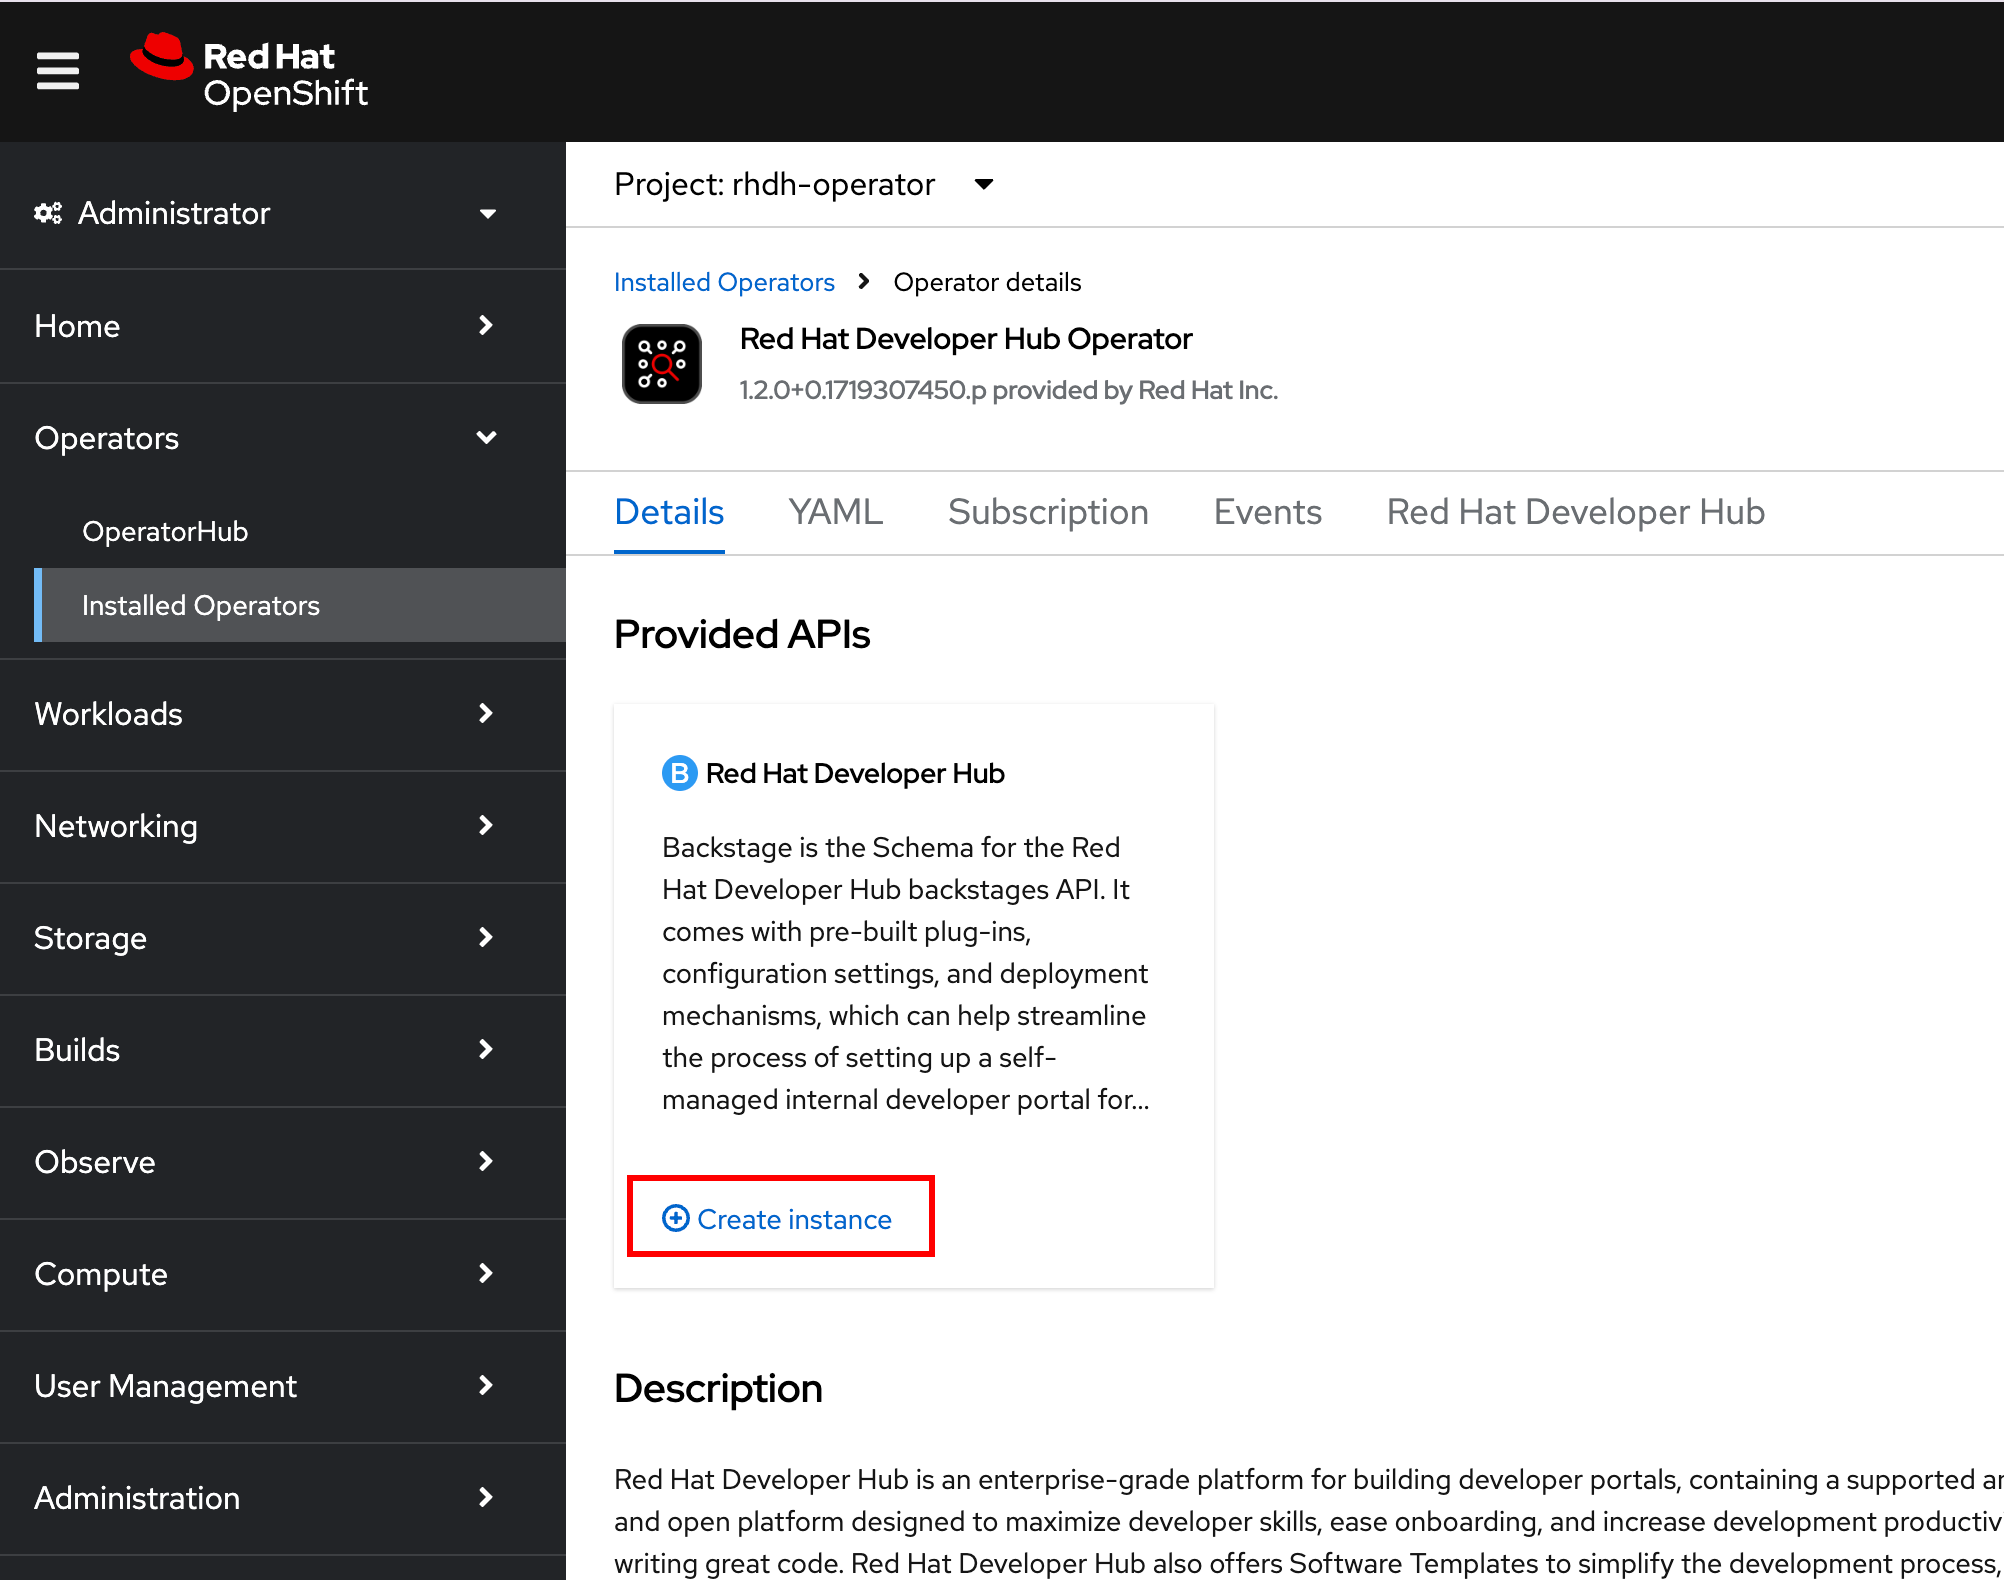
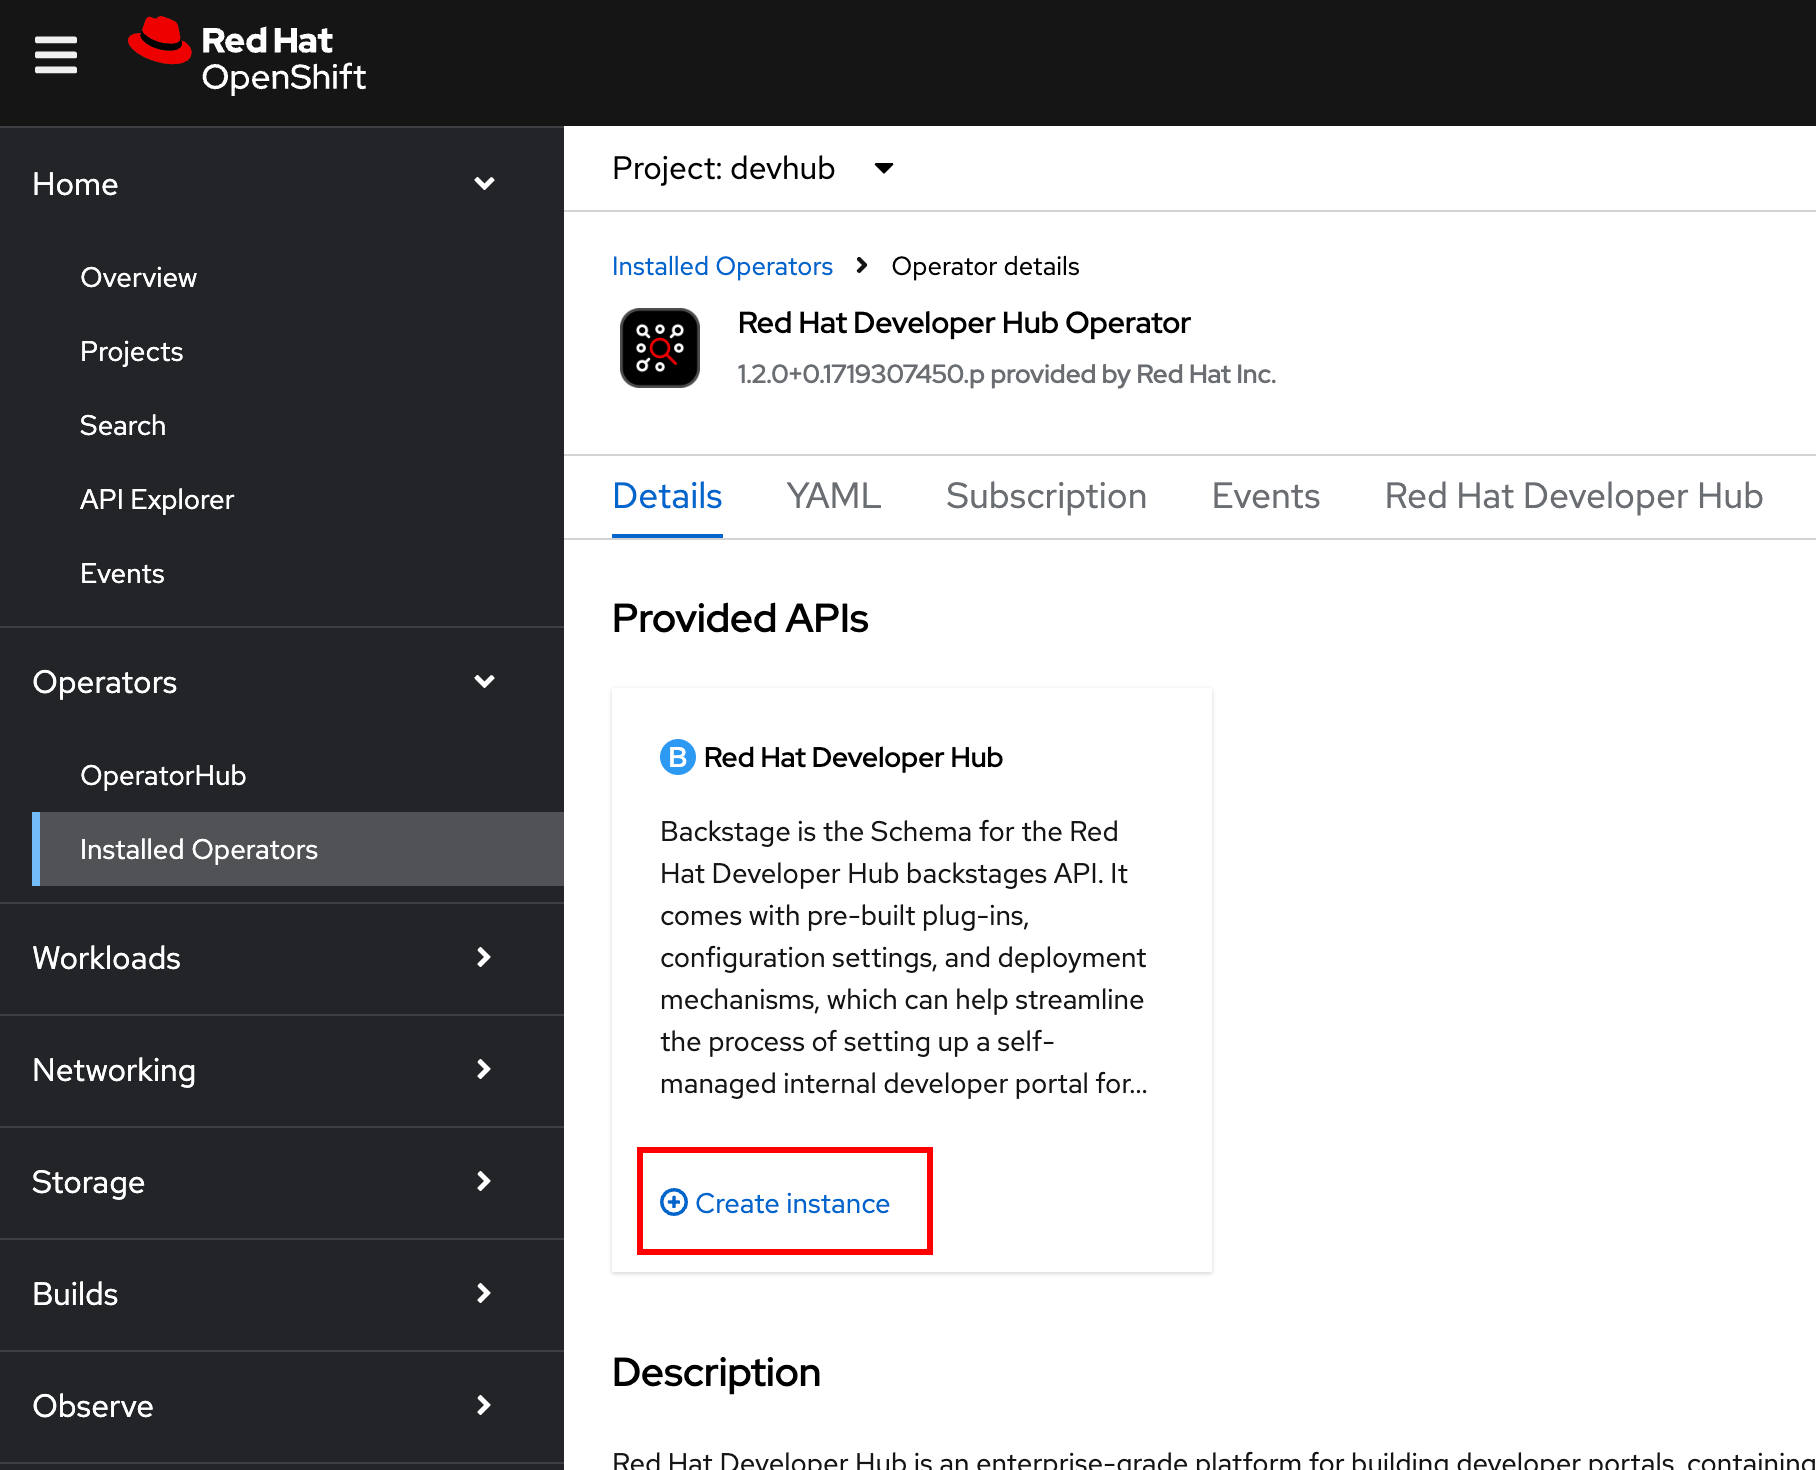
Deploy preview for PR 12 🛫

diff --git a/pr-preview/pr-12/devhub-admin/1/chapter1/upgrade.html b/pr-preview/pr-12/devhub-admin/1/chapter1/upgrade.html
@@ -136,126 +136,10 @@
 <i class="fa icon-important" title="Important"></i>
 </td>
 <td class="content">
-Before you perform any updates to RHDH, ensure that you back up <strong>ALL</strong> the data in the RHDH PostreSQL database!
+Before you perform any updates to RHDH, ensure that you back up <strong>ALL</strong> the data in the RHDH PostreSQL database, plus any RHDH configuration stored in ConfigMaps and Secrets!
 </td>
 </tr>
 </table>
-</div>
-</div>
-</div>
-<div class="sect1">
-<h2 id="_backup_the_rhdh_postgresql_database"><a class="anchor" href="#_backup_the_rhdh_postgresql_database"></a>Backup the RHDH PostgreSQL Database</h2>
-<div class="sectionbody">
-<div class="paragraph">
-<p>You need to install several CLI tools on your <strong>local workstation</strong> before upgrading the database.</p>
-</div>
-<div class="ulist">
-<ul>
-<li>
-<p>Install the OpenShift CLI tool <strong>oc</strong></p>
-</li>
-<li>
-<p>Install the PostgreSQL CLI client <strong>psql</strong> and <strong>pg_dump</strong></p>
-</li>
-</ul>
-</div>
-<div class="sect2">
-<h3 id="_backup_process"><a class="anchor" href="#_backup_process"></a>Backup Process</h3>
-<div class="olist arabic">
-<ol class="arabic">
-<li>
-<p>Use the <strong>oc</strong> CLI to log in to the OpenShift cluster as the cluster administrator, and switch to the <strong>devhub</strong> project.</p>
-<div class="listingblock">
-<div class="content">
-<pre class="highlightjs highlight"><code class="language-bash hljs" data-lang="bash">$ oc login -u admin https://api.cluster-&lt;your_guid&gt;.dynamic.redhatworkshops.io:6443
-$ oc project devhub</code></pre>
-</div>
-</div>
-</li>
-<li>
-<p>Scale the <strong>rhdh-developer-hub</strong> pods to <strong>0</strong> to prevent requests from modifying the database state during backup.</p>
-<div class="listingblock">
-<div class="content">
-<pre class="highlightjs highlight"><code class="language-bash hljs" data-lang="bash">$ oc scale --replicas=0 deployment/rhdh-developer-hub</code></pre>
-</div>
-</div>
-</li>
-<li>
-<p>Get the name of the PostgreSQL database pod and set it to an environment variable.</p>
-<div class="listingblock">
-<div class="content">
-<pre class="highlightjs highlight"><code class="language-bash hljs" data-lang="bash">$ POD=`oc get pods --selector app.kubernetes.io/name=postgresql \
-  -o custom-columns=name:.metadata.name --no-headers`; echo $POD</code></pre>
-</div>
-</div>
-</li>
-<li>
-<p>List the RHDH databases in the PostgreSQL instance. The RHDH databases are prefixed by <strong>backstage_</strong>.</p>
-<div class="listingblock">
-<div class="content">
-<pre>$ <strong>oc rsh $POD</strong>
-sh-5.1$ <strong>psql postgres</strong>
-psql (15.3)
-Type "help" for help.
-
-postgres=# <strong>\l</strong>
-...
- backstage_plugin_app
- backstage_plugin_auth
- backstage_plugin_catalog
- backstage_plugin_scaffolder
- backstage_plugin_search
-...
-(8 rows)
-postgres=# <strong>\q</strong>
-sh-5.1$ <strong>exit</strong></pre>
-</div>
-</div>
-</li>
-<li>
-<p>Enable port forwarding to the database pod.</p>
-<div class="listingblock">
-<div class="content">
-<pre class="highlightjs highlight"><code class="language-bash hljs" data-lang="bash">$ oc port-forward $POD 5432:5432
-Forwarding from 127.0.0.1:5432 -&gt; 5432
-Forwarding from [::1]:5432 -&gt; 5432</code></pre>
-</div>
-</div>
-</li>
-<li>
-<p>Backup all the <strong>backstage_</strong> the databases using the <strong>pg_dump</strong> command. Store the database backups in a safe location, for restoration at a later point in time in case of a disaster or failure.</p>
-<div class="listingblock">
-<div class="content">
-<pre class="highlightjs highlight"><code class="language-bash hljs" data-lang="bash">$ pg_dump backstage_plugin_app &gt; /tmp/backstage_plugin_app.sql \
-  --host=127.0.0.1 --port=5432 -U postgres</code></pre>
-</div>
-</div>
-<div class="paragraph">
-<p>Repeat the command for all the other <strong>backstage_</strong> databases.</p>
-</div>
-</li>
-<li>
-<p>After all the databases have been backed up, you can scale the <strong>rhdh-developer-hub</strong> back to your original count.</p>
-<div class="listingblock">
-<div class="content">
-<pre class="highlightjs highlight"><code class="language-bash hljs" data-lang="bash">$ oc scale --replicas=1 deployment/rhdh-developer-hub</code></pre>
-</div>
-</div>
-</li>
-</ol>
-</div>
-<div class="admonitionblock note">
-<table>
-<tr>
-<td class="icon">
-<i class="fa icon-note" title="Note"></i>
-</td>
-<td class="content">
-If you are using a non-default (that is, from a third party or commercial vendor) PostgreSQL database, refer to the backup instructions from the provider of the PostgreSQL database. Ensure that you scale the <strong>rhdh-developer-hub</strong> pod count to <strong>0</strong> before starting the backup procedure.
-</td>
-</tr>
-</table>
-</div>
 </div>
 </div>
 </div>
@@ -316,11 +200,27 @@ $ oc project devhub</code></pre>
 </div>
 </li>
 <li>
-<p>Assuming there is a new version of the RHDH helm chart (for example, <strong>1.1.0</strong>), run the following command to upgrade RHDH. You can also supply extra values to the chart by creating a <strong>new-values.yml</strong> file on your workstation with values that override the attributes in the installed chart, or add new attributes.</p>
+<p>Assuming there is a new version of the RHDH helm chart (for example, <strong>1.2.1</strong>), run the following command to upgrade RHDH.</p>
+<div class="listingblock">
+<div class="content">
+<pre class="highlightjs highlight"><code class="language-bash hljs" data-lang="bash">$ helm upgrade -i rhdh \
+  openshift-helm-charts/redhat-developer-hub --version 1.2.1
+
+Release "rhdh" has been upgraded. Happy Helming!
+NAME: rhdh
+LAST DEPLOYED: Fri Jun 28 18:06:47 2024
+NAMESPACE: devhub
+STATUS: deployed
+REVISION: 2</code></pre>
+</div>
+</div>
+<div class="paragraph">
+<p>You can also supply extra values to the chart by creating a <strong>new-values.yml</strong> file on your workstation with values that override the attributes in the installed chart, or add new attributes.</p>
+</div>
 <div class="listingblock">
 <div class="content">
 <pre class="highlightjs highlight"><code class="language-bash hljs" data-lang="bash">$ helm upgrade -i rhdh -f new-values.yml \
-  openshift-helm-charts/redhat-developer-hub --version 1.1.0</code></pre>
+  openshift-helm-charts/redhat-developer-hub --version 1.2.1</code></pre>
 </div>
 </div>
 </li>
@@ -331,20 +231,17 @@ $ oc project devhub</code></pre>
 <div class="sect1">
 <h2 id="_upgrading_the_rhdh_operator_using_the_openshift_web_console"><a class="anchor" href="#_upgrading_the_rhdh_operator_using_the_openshift_web_console"></a>Upgrading the RHDH Operator using the OpenShift Web Console</h2>
 <div class="sectionbody">
-<div class="admonitionblock note">
-<table>
-<tr>
-<td class="icon">
-<i class="fa icon-note" title="Note"></i>
-</td>
-<td class="content">
-The operator is not yet available publicly (ETA: Q1 2024). Watch this section for updates once the operator is GA.
-</td>
-</tr>
-</table>
+<div class="paragraph">
+<p>The default setting during operator install is set to <strong>Automatic</strong> mode. In this mode, new versions of the operator are <em>automatically</em> downloaded and applied. If you chose the <strong>Manual</strong> mode, a cluster administrator needs to <em>manually</em> approve each upgrade. In such cases, switch to the <code>Administrator</code> perspective, and then click on <code>Operators &gt; Installed Operators</code> to view the updates for the RHDH operator.</p>
+</div>
+<div class="imageblock">
+<div class="content">
+<img src="_images/op-upgrade.png" alt="op upgrade">
+</div>
+<div class="title">Figure 3. Operator Updates</div>
 </div>
 <div class="paragraph">
-<p>You can refer to the instructions <a href="https://docs.openshift.com/container-platform/4.13/operators/admin/olm-upgrading-operators.html#olm-upgrading-operators" target="_blank" rel="noopener">here</a> to upgrade the RHDH operator.</p>
+<p>Click <code>Upgrade Available</code> for the RHDH operator, and then click <code>Preview InstallPlan</code>. Click <code>Approve</code> to approve the update.</p>
 </div>
 </div>
 </div>

diff --git a/pr-preview/pr-12/devhub-admin/1/chapter1/install-operator.html b/pr-preview/pr-12/devhub-admin/1/chapter1/install-operator.html
@@ -171,6 +171,9 @@
 <div class="title">Figure 1. RHDP OpenShift Cluster Details</div>
 </div>
 </li>
+<li>
+<p>Create a new OpenShift project named <strong>devhub</strong>. You will install the RHDH operator and instance into this project.</p>
+</li>
 </ol>
 </div>
 </div>
@@ -191,7 +194,13 @@
 </div>
 </li>
 <li>
-<p>In the <code>Red Hat Developer Hub</code> operator details page, click <code>Install</code>. In the <code>Install Operator</code> page, select the default values for all fields and click <code>Install</code> to begin the installation.</p>
+<p>In the <code>Red Hat Developer Hub</code> operator details page, click <code>Install</code>. In the <code>Install Operator</code> page, select the <strong>devhub</strong> project in the <code>Installed Namespace</code> field. Leave all other fields at their default values, and click <code>Install</code> to begin the operator installation.</p>
+<div class="imageblock">
+<div class="content">
+<img src="_images/rhdh-op-details.png" alt="rhdh op details">
+</div>
+<div class="title">Figure 3. RHDP Operator Details</div>
+</div>
 </li>
 <li>
 <p>Wait for 5-10 minutes while the operator is installed. You should see <code>Installed operator:  ready for use</code> message when the operator is successfully installed.</p>
@@ -199,7 +208,7 @@
 <div class="content">
 <img src="_images/rhdh-operator-installed.png" alt="rhdh operator installed">
 </div>
-<div class="title">Figure 3. RHDH Operator Installed</div>
+<div class="title">Figure 4. RHDH Operator Installed</div>
 </div>
 </li>
 <li>
@@ -208,19 +217,19 @@
 <div class="content">
 <img src="_images/rhdh-create-op-instance.png" alt="rhdh create op instance">
 </div>
-<div class="title">Figure 4. RHDH Create new Instance</div>
+<div class="title">Figure 5. RHDH Create new Instance</div>
 </div>
 </li>
 <li>
 <p>In the <code>Create Backstage</code> page, change the <code>Name</code> to <strong>rhdh</strong>, leave all other fields at default values, and then click <code>Create</code> to deploy a new RHDH instance.</p>
 </li>
 <li>
-<p>Switch to the <code>Developer</code> perspective in the OpenShift web console, and select the <code>rhdh-operator</code> project. Verify that a new instance called <code>rhdh</code> is seen with two pods in running state.</p>
+<p>Switch to the <code>Developer</code> perspective in the OpenShift web console, and select the <code>devhub</code> project. Verify that a new instance called <code>rhdh</code> is seen with two pods in running state.</p>
 <div class="imageblock">
 <div class="content">
 <img src="_images/rhdh-op-instance-running.png" alt="rhdh op instance running">
 </div>
-<div class="title">Figure 5. RHDH instance running</div>
+<div class="title">Figure 6. RHDH instance running</div>
 </div>
 </li>
 <li>
@@ -229,7 +238,7 @@
 <div class="content">
 <img src="_images/rhdh-op-installed.png" alt="rhdh op installed">
 </div>
-<div class="title">Figure 6. RHDH Open URL</div>
+<div class="title">Figure 7. RHDH Open URL</div>
 </div>
 </li>
 <li>
@@ -238,7 +247,7 @@
 <div class="content">
 <img src="_images/rhdh-homepage.png" alt="rhdh homepage">
 </div>
-<div class="title">Figure 7. RHDH Log in Page</div>
+<div class="title">Figure 8. RHDH Log in Page</div>
 </div>
 </li>
 <li>
@@ -248,7 +257,7 @@ You will configure RHDH to authenticate against GitHub and other identity provid
 <div class="content">
 <img src="_images/rhdh-guest-user.png" alt="rhdh guest user">
 </div>
-<div class="title">Figure 8. Log in as a guest user</div>
+<div class="title">Figure 9. Log in as a guest user</div>
 </div>
 <div class="paragraph">
 <p>You have now successfully installed Red Hat Developer Hub on your OpenShift cluster using the RHDH operator.</p>

diff --git a/pr-preview/pr-12/devhub-admin/1/chapter1/uninstall.html b/pr-preview/pr-12/devhub-admin/1/chapter1/uninstall.html
@@ -133,7 +133,7 @@
 <i class="fa icon-important" title="Important"></i>
 </td>
 <td class="content">
-Before you uninstall RHDH, verify if you need to back up the data in the RHDH PostgreSQL database!. Follow the instructions in the previous section to back up the PostgreSQL database.
+Before you uninstall RHDH, verify if you need to back up the data in the RHDH PostgreSQL database, plus any RHDH configuration stored in ConfigMaps and Secrets!
 </td>
 </tr>
 </table>
@@ -200,20 +200,30 @@ release "rhdh" uninstalled</pre>
 <div class="sect1">
 <h2 id="_uninstalling_the_rhdh_operator"><a class="anchor" href="#_uninstalling_the_rhdh_operator"></a>Uninstalling the RHDH Operator</h2>
 <div class="sectionbody">
-<div class="admonitionblock note">
-<table>
-<tr>
-<td class="icon">
-<i class="fa icon-note" title="Note"></i>
-</td>
-<td class="content">
-The operator is not yet available publicly (ETA: Q1 2024). Watch this section for updates once the operator is GA.
-</td>
-</tr>
-</table>
-</div>
 <div class="paragraph">
-<p>You can refer to the instructions <a href="https://docs.openshift.com/container-platform/4.13/operators/admin/olm-deleting-operators-from-cluster.html" target="_blank" rel="noopener">here</a> to uninstall the RHDH operator.</p>
+<p>To uninstall the RHDH operator, do the following:</p>
+</div>
+<div class="olist arabic">
+<ol class="arabic">
+<li>
+<p>Switch to the <code>Developer</code> perspective, and click <code>Topolgy</code>. Click the hamburger menu option (three vertical dots) next to the <code>Backstage</code> instance (Blue badge marked 'B'), and then click <code>Delete Backstage</code> to delete the RHDH instance.</p>
+<div class="imageblock">
+<div class="content">
+<img src="_images/del-rhdh-op-instance.png" alt="del rhdh op instance">
+</div>
+<div class="title">Figure 2. Delete RHDH instance</div>
+</div>
+</li>
+<li>
+<p>Now, switch to the <code>Administrator</code> perspective, and then click <code>Operators &gt; Installed Operators</code>. Select the project where you installed the operator (<strong>devhub</strong>), and expand the menu option against the <code>Red Hat Developer Hub Operator</code>. Click <code>Uninstall Operator</code> to remove the operator.</p>
+<div class="imageblock">
+<div class="content">
+<img src="_images/uninstall-rhdh-op.png" alt="uninstall rhdh op">
+</div>
+<div class="title">Figure 3. Uninstall RHDH operator</div>
+</div>
+</li>
+</ol>
 </div>
 </div>
 </div>
